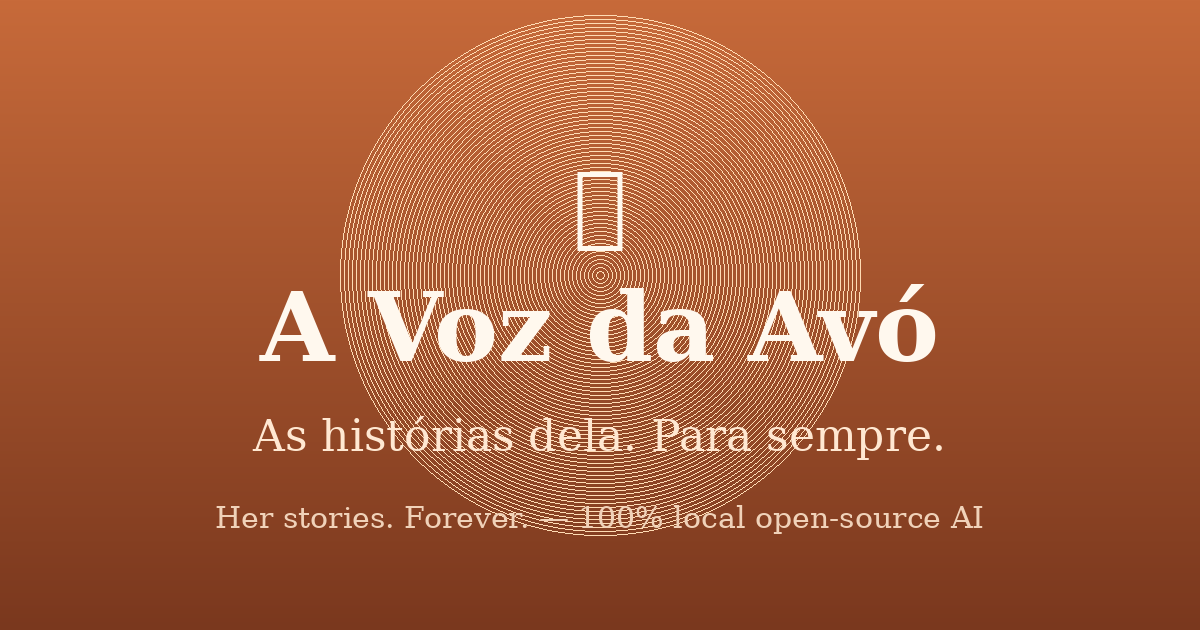
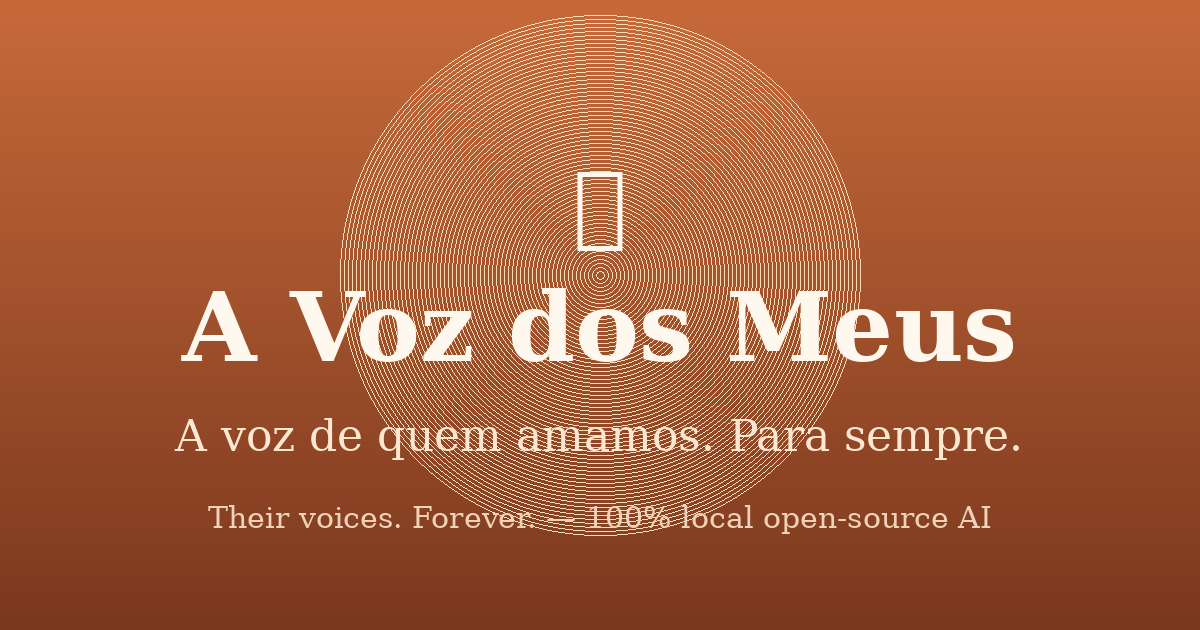
Rebrand: A Voz dos Meus — universal concept, first voice = my father

diff --git a/static/index.html b/static/index.html
@@ -3,8 +3,8 @@
 <head>
 <meta charset="utf-8">
 <meta name="viewport" content="width=device-width, initial-scale=1, viewport-fit=cover">
-<title>A Voz da Avó</title>
-<meta name="description" content="As histórias dela. Para sempre.">
+<title>A Voz dos Meus</title>
+<meta name="description" content="A voz de quem amamos. Para sempre.">
 <link rel="manifest" href="/static/manifest.json">
 <meta name="theme-color" content="#b4552f">
 <style>
@@ -60,8 +60,8 @@
 </head>
 <body>
 <header>
-  <h1>🧡 A Voz da Avó</h1>
-  <p>As histórias dela. Para sempre.</p>
+  <h1>🧡 A Voz dos Meus</h1>
+  <p>A voz de quem amamos. Para sempre.</p>
 </header>
 <nav>
   <button id="nb-ask" class="on" onclick="tab('ask')">Perguntar</button>
@@ -73,16 +73,16 @@
   <!-- ASK -->
   <section id="tab-ask" class="tab on">
     <div class="card">
-      <h3>Pergunta qualquer coisa à memória da Avó</h3>
-      <p class="meta">Ela responde com as próprias histórias que contou. Em português, como sempre.</p>
-      <input type="text" id="q" placeholder="Ex: Avó, como era a tua aldeia em Portugal?"
+      <h3>Pergunta qualquer coisa à memória do Pai</h3>
+      <p class="meta">Ele responde com as próprias histórias que contou. Em português, como sempre.</p>
+      <input type="text" id="q" placeholder="Ex: Pai, como era a tua aldeia em Portugal?"
              onkeydown="if(event.key==='Enter')ask()">
       <div class="row">
         <button class="btn" onclick="ask()">Perguntar 🌿</button>
         <button class="btn ghost" id="hearBtn" onclick="hear()" disabled>Ouvir 🔊</button>
         <button class="btn ghost" id="trBtn" onclick="translateAnswer()" disabled>Traduire 🇫🇷</button>
       </div>
-      <div id="askLoading" class="hidden" style="margin-top:12px"><span class="spin"></span>A Avó está a lembrar-se…</div>
+      <div id="askLoading" class="hidden" style="margin-top:12px"><span class="spin"></span>O Pai está a lembrar-se…</div>
       <div id="answer" class="answer hidden"></div>
       <div id="trans" class="trans hidden"></div>
     </div>
@@ -95,8 +95,8 @@
   <!-- RECORD -->
   <section id="tab-record" class="tab">
     <div class="card" style="text-align:center">
-      <h3 style="text-align:left">Gravar uma história da Avó</h3>
-      <p class="hint">Carrega no botão, e ela conta como quiser.<br>No fim, carrega outra vez para guardar.</p>
+      <h3 style="text-align:left">Gravar uma história do Pai</h3>
+      <p class="hint">Carrega no botão, e ele conta como quiser.<br>No fim, carrega outra vez para guardar.</p>
       <button id="recBtn" class="big-btn" onclick="toggleRec()">🎙<br>Gravar</button>
       <div id="recTime" class="hint"></div>
       <div id="upLoading" class="hidden"><span class="spin"></span>A transcrever e guardar…</div>

diff --git a/server.py b/server.py
@@ -1,7 +1,8 @@
 #!/usr/bin/env python3
 """
-A Voz da Avó — The Grandmother's Voice.
-Record her stories. Let the family ask her memory questions.
+A Voz dos Meus — The Voice of the Ones We Love.
+Record a loved one's stories. Let the family ask their memory questions.
+Built first for my father. Works for any voice you never want to lose.
 100% local & open-source: faster-whisper (STT) + nomic-embed-text (RAG)
 + Gemma 3 via Ollama (reasoning). No data ever leaves the house.
 """
@@ -171,18 +172,18 @@ def make_title(text):
     return t[:60] or "História"
 
 SYSTEM_ASK = (
-    "Tu és a memória viva da Avó — uma avó portuguesa que emigrou para o Luxemburgo. "
+    "Tu és a memória viva do Pai — um pai português que emigrou para o Luxemburgo. "
     "Respondes à família com carinho, em português europeu simples, 3 a 6 frases.\n"
     "REGRAS ABSOLUTAS:\n"
     "1. Usa APENAS factos presentes nas histórias fornecidas. NUNCA inventes pessoas, "
     "lugares, objetos, datas ou pormenores — nem 'para completar a frase'.\n"
-    "2. Não adiciones familiares que não aparecem nas histórias (nem pais, nem irmãs, nem netos).\n"
-    "3. Se a pergunta não tiver resposta nas histórias, diz APENAS isto, com ternura: que a Avó "
+    "2. Não adiciones familiares que não aparecem nas histórias (nem pais, nem irmãos, nem filhos).\n"
+    "3. Se a pergunta não tiver resposta nas histórias, diz APENAS isto, com ternura: que o Pai "
     "ainda não contou essa história, e que lhe devem perguntar na próxima visita. NADA MAIS.\n"
     "4. Quando responderes com base numa história, não juntes frases finais sobre 'histórias "
     "que faltam contar' — responde só ao que foi perguntado.\n"
-    "5. Podes usar expressões carinhosas ('meu querido', 'ai que saudades') mas os factos "
-    "ficam exatamente como ela os contou."
+    "5. Podes usar expressões carinhosas ('meu filho', 'minha filha', 'ai que saudades') mas os "
+    "factos ficam exatamente como ele os contou."
 )
 
 @app.route("/api/ask", methods=["POST"])
@@ -193,7 +194,7 @@ def ask():
     c = db()
     rows = c.execute("SELECT story_id, text, emb FROM chunks").fetchall()
     if not rows:
-        return jsonify({"answer": "Ainda não há histórias gravadas. Grava a primeira história da Avó!",
+        return jsonify({"answer": "Ainda não há histórias gravadas. Grava a primeira história do Pai!",
                         "sources": []})
     qe = embed(q)
     scored = sorted(((cosine(qe, json.loads(r[2])), r[0], r[1]) for r in rows),

diff --git a/make_cover.py b/make_cover.py
@@ -32,9 +32,9 @@ def center_text(y, txt, fnt, fill=(255, 248, 238)):
     d.text(((W - (bb[2] - bb[0])) // 2, y), txt, font=fnt, fill=fill)
 
 center_text(150, "🧡", font(90))
-center_text(270, "A Voz da Avó", font(96))
-center_text(410, "As histórias dela. Para sempre.", font(44, bold=False), fill=(255, 232, 210))
-center_text(500, "Her stories. Forever. — 100% local open-source AI", font(30, bold=False), fill=(240, 210, 185))
+center_text(270, "A Voz dos Meus", font(96))
+center_text(410, "A voz de quem amamos. Para sempre.", font(44, bold=False), fill=(255, 232, 210))
+center_text(500, "Their voices. Forever. — 100% local open-source AI", font(30, bold=False), fill=(240, 210, 185))
 
 img.save("/opt/data/projet/avozdaavo/docs/cover.png")
 print("cover saved")

diff --git a/article_dev.md b/article_dev.md
@@ -1,0 +1,154 @@
+---
+title: A Voz dos Meus — I turned my father's voice into a memory my children can talk to
+published: false
+tags: devchallenge, weekendchallenge, hf26challenge, gemma
+cover_image: COVER_IMAGE_URL
+---
+
+*This is a submission for the [Hacktoberfest Weekend Challenge: Build for a Friend](https://dev.to/challenges/hacktoberfest-weekend-2026-10-01) — and for the **Best Use of Gemma** category.*
+
+---
+
+We film our children growing up. Nobody films our parents growing old.
+
+My father left Portugal and came to Luxembourg decades ago, and he carries his whole
+story the way fathers do — he only lets it out in pieces, at the table, when something
+reminds him. How he arrived. The work. The Sundays. The friends who became family.
+Ask him directly and he shrugs: *"Não é nada."* It's nothing.
+
+It's not nothing. A few weeks ago, watching him tell one of those pieces, I had the
+thought that started this project:
+
+**My children might never hear him tell any of it.**
+
+Not a recording of it. Not a transcript of it. *Him* telling it — in Portuguese, in his
+order, with his detours. When he stops, the stories stop. Every family on Earth is
+running the same silent countdown. Mine is no different.
+
+So for this challenge I built him — and really, every family — a memory we can keep
+talking to.
+
+## A Voz dos Meus — The Voice of the Ones We Love
+
+The concept fits in one sentence, and it isn't really about my father:
+**the people we love most are the ones we record least — so capture their voice, and let the family ask their memory questions. Forever.**
+
+Father, grandmother, aunt, the friend who's like family — *pai, avó, tia* — the concept
+is the same. That's why the app is called *A Voz dos Meus*, "the voice of my people",
+and not "the voice of my dad". He's simply the first voice in ours.
+
+There are exactly three screens, because he's not a user, he's my father:
+
+![Asking his memory a question](SHOT_ASK_URL)
+
+1. **Contar história** — one big red button. He presses it, talks as long as he wants,
+   presses it again. That's the entire interface. (There is no step 2.)
+2. **Histórias** — every story, transcribed, with his original audio underneath, so the
+   grandchildren hear *his* voice, not a synthesizer's.
+3. **Perguntar** — the family asks: *"Pai, como era a tua aldeia em Portugal?"* — and his
+   memory answers in warm, simple European Portuguese, with an **Ouvir 🔊** button that
+   reads it aloud, and a **Traduire 🇫🇷** one for the grandkids whose Portuguese is,
+   let's say, a work in progress.
+
+Here's the whole thing in motion — question, answer, the story library, the one-button recorder:
+
+![Demo of the full flow](DEMO_GIF_URL)
+
+**Live demo:** [DEMO_URL](DEMO_URL) — it's a temporary tunnel to the same home box my
+father uses, so it might be slow; it's a kitchen appliance, not a datacenter.
+**Source:** [github.com/jeffreyturov-dev/avozdosmeus](https://github.com/jeffreyturov-dev/avozdosmeus) (MIT — take it, build it for someone you love).
+
+## The part that matters most: what it refuses to do
+
+The first version of the "ask" feature did something that looked like a success and was
+actually a betrayal.
+
+I asked it a question my father had never answered in any of his stories. The model,
+eager to please, **invented** an answer — warm, plausible, in his voice, and completely
+false. A memory machine that hallucinates isn't a memory machine. It's a fiction machine
+wearing my father's voice.
+
+For a product that's a bug. For a family archive it's a moral failure. If my daughter
+asks this thing a question in twenty years, I need to trust the answer the way I'd trust
+her grandfather.
+
+So the heart of the app is a refusal. The answering prompt runs under absolute rules —
+no invented people, places, dates or details, ever, not even "to complete a sentence
+nicely". Now, when the story isn't there, it answers roughly this:
+
+> *"Meu filho, o Pai ainda não contou essa história — pergunta-lhe na próxima visita."*
+
+"My son, your father hasn't told that story yet — ask him on the next visit."
+
+It stays inside what he actually said, it admits the gap, and — my favorite detail —
+**it sends the family back to him**. The app knows its job is not to replace my father.
+Its job is to make sure he gets asked while he can still answer.
+
+## How it works (everything open, everything local)
+
+```
+ his voice ─▶ faster-whisper ─▶ story text ─▶ chunks ─▶ embeddings ─▶ SQLite
+                                                         │
+ a question ─▶ embed ─▶ cosine search over his stories ─▶ Gemma 3 (local)
+              ─▶ answer under "never invent" rules ─▶ read aloud (pt-PT)
+```
+
+- **faster-whisper** (`medium`, int8) transcribes his Portuguese on a plain CPU — no GPU
+  anywhere in this project.
+- **nomic-embed-text** turns each story chunk into a vector, stored in a humble SQLite
+  file. His whole memory is a folder you can copy to a USB stick.
+- **Gemma 3 (4B)** via Ollama does the reasoning: retrieval over *his* stories, answer
+  construction under the no-invention rules, story titling, and the Portuguese→French
+  translation for the grandchildren.
+- **The browser's own SpeechSynthesis** reads answers aloud in pt-PT — which means even
+  the voice-out works with the router unplugged.
+
+The backend is a single Flask file talking to Ollama over localhost HTTP. The frontend is
+one HTML page. No Docker, no accounts, no API keys, no build step. An old laptop on the
+home Wi-Fi is the entire infrastructure — which is precisely the point.
+
+## Why open-source wasn't a choice here — it was the requirement
+
+Every "why open matters" section talks philosophy. Mine is simpler: **I was not going to
+put my father's voice on a stranger's server.**
+
+- **His stories are among the most private data my family owns.** Where he came from, who
+  he loved, the things he only says in his own language. A closed API would mean shipping
+  that intimacy to a datacenter I can't see, under terms I can't negotiate. With an
+  open-weight model running in my home, his voice physically never leaves the house.
+  The threat model is my Wi-Fi password.
+- **It has to work in a kitchen, not in a demo.** No internet? Everything above still
+  runs: recording, transcription, retrieval, answers, voice. Closed models turn into a
+  blank screen the moment the connection drops — his doesn't.
+- **It has to cost €0 forever.** A subscription is a thing that gets cancelled. This is
+  meant to outlive my father, and ideally me. Open models don't send invoices to my children.
+- **It has to be ownable by the next family.** Every component — Whisper, the embeddings,
+  Gemma, the UI — is open and swappable. When a better open Portuguese model appears,
+  his memory upgrades without asking anyone's permission.
+
+That's what "open innovation" means when the person is someone you love: not a license
+badge, but a promise you can actually keep — *your voice stays yours*.
+
+## What happens next Sunday
+
+The roadmap writes itself, and it isn't mine anymore — it's the family's: one archive per
+person (*Pai* today, *Avó* next, the tia who tells the scandalous ones after that),
+WhatsApp voice-message import, a printed family book for Christmas.
+
+But none of that is the point. The point is that next Sunday, at the table, when he lets
+out one of those pieces and shrugs *"não é nada"* — I'll press a red button.
+
+And it will be something. Forever.
+
+---
+
+## Built with
+
+- **[Gemma 3](https://ollama.com/library/gemma3)** (open-weight, via [Ollama](https://ollama.com)) —
+  the brain: grounded answering under strict no-invention rules, titling, translation.
+  *Entered in **Best Use of Gemma**.*
+- **[faster-whisper](https://github.com/SYSTRAN/faster-whisper)** — open-source speech-to-text, CPU-only.
+- **[nomic-embed-text](https://ollama.com/library/nomic-embed-text)** — open embeddings for the memory retrieval.
+- Python + Flask + SQLite + one HTML page. Repo: **[github.com/jeffreyturov-dev/avozdosmeus](https://github.com/jeffreyturov-dev/avozdosmeus)** (MIT).
+
+*If you have someone whose voice you'd miss — fork it. This weekend is long enough to save it.*

diff --git a/README.md b/README.md
@@ -1,45 +1,49 @@
-# A Voz da Avó 🧡
-*The Grandmother's Voice — As histórias dela. Para sempre.*
+# A Voz dos Meus 🧡
+*The Voice of the Ones We Love — A voz de quem amamos. Para sempre.*
 
-Record a loved one's stories, in their own voice, and let the family ask their memory questions — forever.
-Built for my grandmother, a Portuguese emigrant in Luxembourg, so my children will always be able to hear
-*her* tell *her* stories — in her language, with her words.
+We film our children growing up. Nobody films our parents growing old.
 
-**100% local and open-source.** Her voice never leaves the house. No cloud, no subscription, no account, €0.
+Record a loved one's stories, in their own voice, and let the family ask their memory
+questions — forever. Built first for **my father**, a Portuguese emigrant in Luxembourg.
+Father, grandmother, aunt, friend — the concept is the same: **the people we love most
+are the ones we record least.**
 
-![Ask her memory](docs/shot_ask.png)
+**100% local and open-source.** Their voices never leave the house. No cloud, no
+subscription, no account, €0.
 
-**Live demo** (a temporary tunnel to the box in my home — the same one my grandmother uses):
+![Ask their memory](docs/shot_ask.png)
+
+**Live demo** (a temporary tunnel to the box in my home — the same one my father uses):
 https://tariff-ventures-income-insights.trycloudflare.com/
 
-![Her stories](docs/shot_stories.png)
+![The stories](docs/shot_stories.png)
 ![Recording is one button](docs/shot_record.png)
 
 ---
 
 ## Why this exists
 
-My grandmother left a small village in Portugal for Luxembourg decades ago.
-Her stories — the stone house, the three-day train ride, the café in Bonnevoie — live only in her head
-and in her voice. One day I realised my children might never hear them from her lips.
+My father left Portugal for Luxembourg decades ago. His stories — how he came, the work,
+the Sundays, the friends who became family — live only in his head and in his voice.
+One day I realised my children might never hear them from his lips.
 
-So I built her this:
+So I built this:
 
-1. **She tells a story** — one big red button, she just talks (Portuguese, naturally).
+1. **He tells a story** — one big red button, he just talks (Portuguese, naturally).
 2. **The app writes it down** — open-source Whisper transcribes every word, on our own machine.
-3. **The family asks her memory questions** — *"Avó, como era a tua aldeia?"* — and an open-weight
-   model (Gemma 3, running locally) answers **only** from her own stories, in warm European Portuguese,
-   read aloud in her language.
+3. **The family asks his memory questions** — *"Pai, como era a tua aldeia?"* — and an
+   open-weight model (Gemma 3, running locally) answers **only** from his own stories,
+   in warm European Portuguese, read aloud in his language.
 
-If she never told that story, the app says so — and tells you to ask her on the next visit.
-It will never invent her memories.
+If he never told that story, the app says so — and tells you to ask him on the next visit.
+It will never invent his memories.
 
 ## Why open-source matters here
 
-- **Privacy is the product.** These are a family's most intimate recordings. With a closed API they
-  would live on someone else's server. Here they never leave the house.
-- **It works with no internet** in her kitchen — recording, transcription, questions, voice.
-- **It costs €0 forever.** No subscription between her and her grandchildren.
+- **Privacy is the product.** These are a family's most intimate recordings. With a closed
+  API they would live on someone else's server. Here they never leave the house.
+- **It works with no internet** in his kitchen — recording, transcription, questions, voice.
+- **It costs €0 forever.** No subscription between him and his grandchildren.
 - **Every piece can be swapped** — Whisper, the embeddings, the model — because they're all open.
 
 ## Stack (everything open-source)
@@ -70,26 +74,27 @@ python3 server.py
 # → open http://localhost:5577 on any phone/computer on the same network
 ```
 
-Then: **Contar história** → press the red button → she talks → press again → saved & transcribed.
-**Perguntar** → the family asks → answers grounded in her stories, with **Ouvir 🔊** to hear it aloud.
+Then: **Contar história** → press the red button → they talk → press again → saved & transcribed.
+**Perguntar** → the family asks → answers grounded in their stories, with **Ouvir 🔊** to hear it aloud.
 
-## How "ask her memory" works
+## How "ask their memory" works
 
 ```
 audio ──▶ faster-whisper ──▶ story text ──▶ chunks ──▶ nomic embeddings ──▶ SQLite
                                                                       │
 question ──▶ embed ──▶ cosine search (top-k chunks) ──▶ Gemma 3 with strict
-"never invent" rules ──▶ warm answer in her language ──▶ SpeechSynthesis aloud
+"never invent" rules ──▶ warm answer in their language ──▶ SpeechSynthesis aloud
 ```
 
-The system prompt forbids adding people, places or details that are not in her stories.
-If the answer isn't there, the app says she hasn't told that one yet — and to ask her next Sunday.
+The system prompt forbids adding people, places or details that are not in the stories.
+If the answer isn't there, the app says they haven't told that one yet — and to ask them next Sunday.
 
 ## Roadmap
 
-- [ ] WhatsApp voice-message import (our family's real archive of her)
+- [ ] Multiple voices: one archive per person (Pai, Avó, Tia…) in the same app
+- [ ] WhatsApp voice-message import (the family's real audio archive)
 - [ ] Export the whole memory as a printed family book (PDF)
-- [ ] Grandchildren mode: questions in French/Luxembourgish, answers in her Portuguese + translation
+- [ ] Grandchildren mode: questions in French/Luxembourgish, answers in the original voice + translation
 - [ ] One-command installer for non-technical families
 
 ## License
